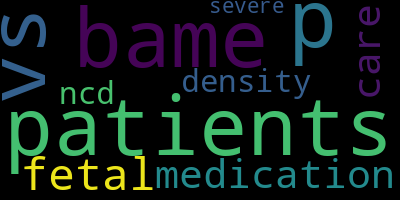
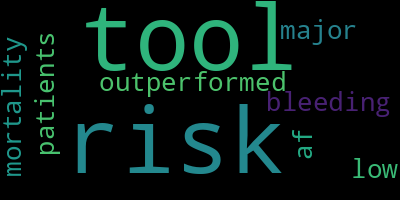
added more input options for user and did enacapsualtion for clusterAbstract class

diff --git a/app/dataProcessing/templates/ask.html b/app/dataProcessing/templates/ask.html
@@ -27,10 +27,18 @@
       {{form.hidden_tag()}}
       {{form.csrf_token}}
     <!--display comment text and box for submission-->
-    {{form.question.label}}{{form.question()}}
+
+    {{form.question.label}}<a>:</a> {{form.question()}}
+    <br>
+    <br>
+    {{form.clusters.label}}{{form.clusters}}
+    
+    {{form.abstracts.label}}<a>:</a> {{form.abstracts()}}
+
 
     <!--the submit box is made-->
-
+    <br>
+    <br>
     {{form.submit()}}
   </form>
 

diff --git a/app/dataProcessing/routes.py b/app/dataProcessing/routes.py
@@ -2,6 +2,7 @@ from flask import Blueprint, render_template
 from form import Form
 import sys
 import os
+import time
 sys.path.append("..")
 
 from utils import ClusterAbstract, MyKMeans
@@ -25,26 +26,23 @@ def dataProcess():
   form = Form()
   if form.is_submitted():
      #retrieve entered text
-    answer = form.question.data
+    keyword = form.question.data
+    n_clusters = int(form.clusters.data)
+    n_abstracts = form.abstracts.data
+
     ca = ClusterAbstract()
-    ca.get(answer, #keyword query
-          '5'#number of abstracts
-      )
-    ca.process_data()
-    ca.encode_data()
-    ca.cluster_data(3)
-
-    ca.analyse_clusters()
-
-    ca.generate_word_clouds()
-    print(f"clusters are {ca.model.labels}")
-
-    #run cluster analysis
+    ca.run(keyword, n_abstracts, n_clusters)
+  
     print(type(ca.word_clouds[0]))
     filenames_list = []
+  
     for c, img in enumerate(ca.word_clouds):
-      filenames_list.append(f"wordcloud_{c}.png")
-      img.to_file(os.path.join("static", f"wordcloud_{c}.png"))
+      t = str(time.time()).replace('.', '_')
+      f = f"wordcloud_{c}_{t}.png"
+      filenames_list.append(f)
+     
+      img.to_file(os.path.join("static", f))
+   
 
     return render_template("landing.html", filenames_list=filenames_list)
 

diff --git a/app/form.py b/app/form.py
@@ -1,5 +1,5 @@
 from flask_wtf import FlaskForm
-from wtforms import StringField, SubmitField
+from wtforms import StringField, SubmitField, RadioField
 from wtforms.validators import DataRequired
 
 
@@ -8,5 +8,14 @@ class Form(FlaskForm):
 
     question = StringField(""" please enter keywords""",
                             validators = [DataRequired()])
+
+    clusters = RadioField("number of clusters", choices=[("2", "2 cluster"),
+                                                         ("3", "3 clusters"),
+                                                         ("4", "4 clusters"),
+                                                         ("5", "5 clusters"),
+                                                         ("6", "6 clusters"),
+                                                         ("7", "7 clusters")
+                                                        ])
+    abstracts = StringField("number of abstracts", validators = [DataRequired()]) 
 
     submit = SubmitField('submit')

diff --git a/utils.py b/utils.py
@@ -341,6 +341,22 @@ class ClusterAbstract(object):
         ans = [c[0] for c in ans]
 
         return(ans)
+
+    def run(self, keywords, n_abstracts, n_clusters):
+      
+
+        self.get(keywords, #keyword query
+              n_abstracts #number of abstracts
+          )
+        self.process_data()
+        self.encode_data()
+        self.cluster_data(n_clusters)
+
+        self.analyse_clusters()
+
+        self.generate_word_clouds()
+        
+
   
 
             

diff --git a/app/app.py b/app/app.py
@@ -5,9 +5,12 @@ from dataProcessing.routes import  dataProcess_bp
 
 app = Flask(__name__)
 
+
 app.config['SECRET_KEY'] = '15101964'
 
 app.register_blueprint(dataProcess_bp)
+
+
 
 if __name__ == "__main__":
     app.run(debug=True)
